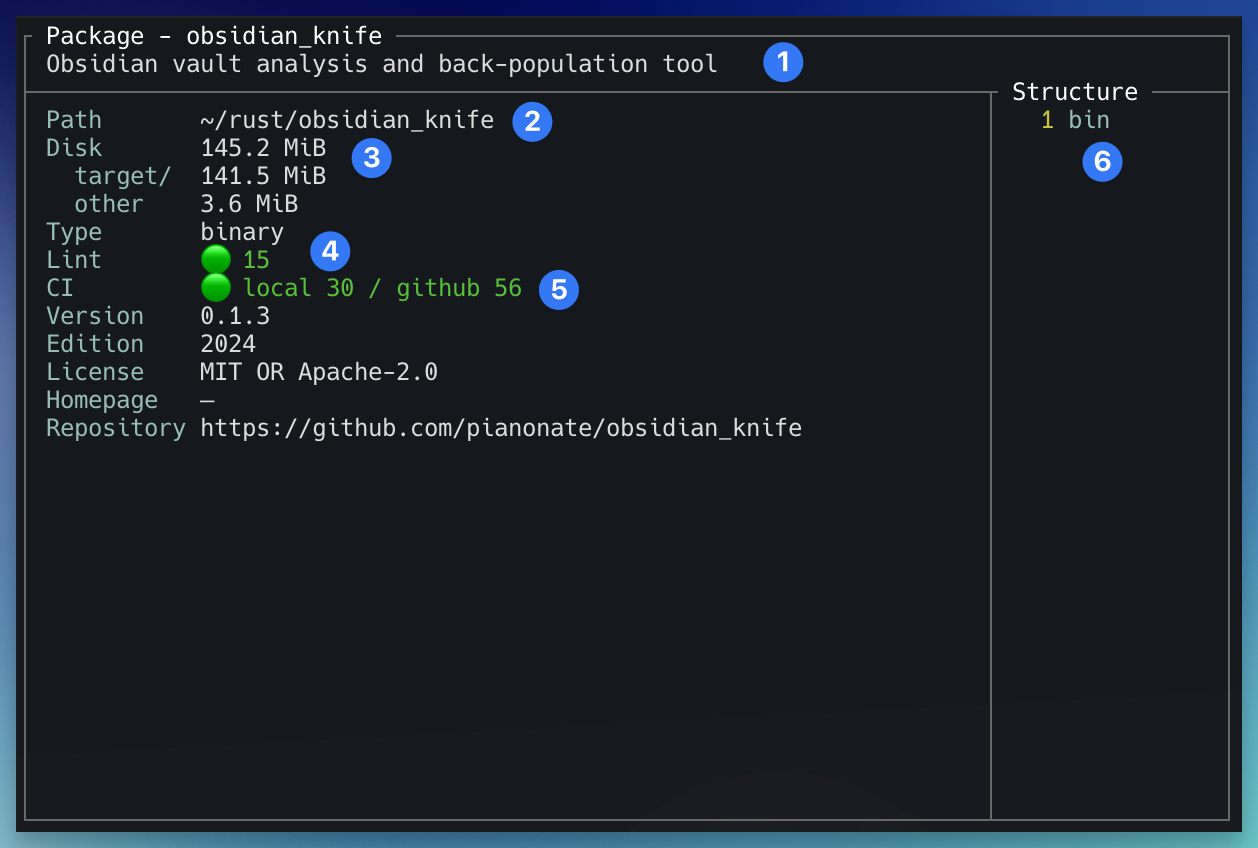
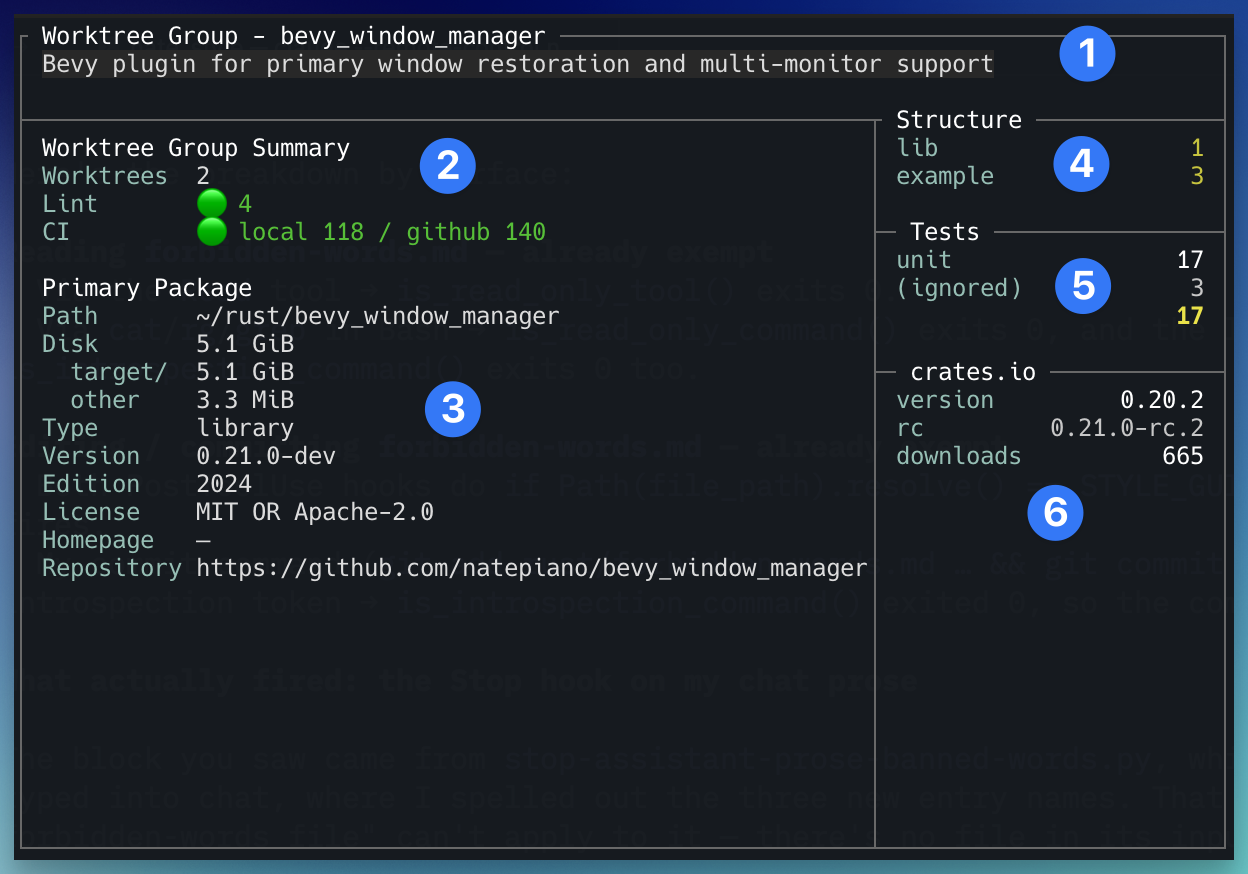
feat: bold column headers and section titles only when pane focused
- Add `focused` param to git pane header renderers (remotes, pull
  requests, worktrees) so column headers bold only when focused
- Introduce `column_header_style(focused)` helper to centralize the
  bold-when-focused logic across the three git section headers
- Gate section-overlay title bold on `rule.focused` instead of always
  applying BOLD
- Switch package pane section titles to `ctx.styles.chrome.title_style`
  keyed on active focus state
- Update header render tests to pass the new `focused` argument
- Refresh dashboard and pane-detail screenshots to reflect the
  focus-dependent emphasis

diff --git a/src/tui/panes/git.rs b/src/tui/panes/git.rs
@@ -243,7 +243,7 @@ fn append_remotes_section(
     });
     accum.lines.push(Line::from(Span::raw(String::new())));
     let col_widths = remote_col_widths(&ctx.data.remotes);
-    render_remote_header(accum.lines, &col_widths);
+    render_remote_header(accum.lines, &col_widths, focused);
     let active = matches!(ctx.focus, PaneFocusState::Active);
     for (i, remote) in ctx.data.remotes.iter().enumerate() {
         let row_index = ctx.row_offset + flat_len + pull_requests_len + i;
@@ -303,7 +303,7 @@ fn append_pull_requests_section(
     }
 
     let col_widths = pull_request_col_widths(&section.rows, area_width, ctx.animation_elapsed);
-    render_pull_request_header(accum.lines, &col_widths);
+    render_pull_request_header(accum.lines, &col_widths, focused);
     let active = matches!(ctx.focus, PaneFocusState::Active);
     for (i, row) in section.rows.iter().enumerate() {
         let row_index = ctx.row_offset + flat_len + i;
@@ -420,10 +420,21 @@ fn pull_request_col_widths(
     }
 }
 
-fn render_pull_request_header(lines: &mut Vec<Line<'static>>, widths: &PullRequestColWidths) {
-    let style = Style::default()
-        .fg(column_header_color())
-        .add_modifier(Modifier::BOLD);
+fn column_header_style(focused: bool) -> Style {
+    let style = Style::default().fg(column_header_color());
+    if focused {
+        style.add_modifier(Modifier::BOLD)
+    } else {
+        style
+    }
+}
+
+fn render_pull_request_header(
+    lines: &mut Vec<Line<'static>>,
+    widths: &PullRequestColWidths,
+    focused: bool,
+) {
+    let style = column_header_style(focused);
     let text = format!(
         " {:<number$}  {:<status$}  {:<branch$}  {}",
         fit_text(PULL_REQUEST_NUMBER_HEADER, widths.number),
@@ -546,7 +557,7 @@ fn append_worktrees_section(
     });
     accum.lines.push(Line::from(Span::raw(String::new())));
     let col_widths = worktree_col_widths(&ctx.data.worktrees);
-    render_worktree_header(accum.lines, &col_widths);
+    render_worktree_header(accum.lines, &col_widths, focused);
     let active = matches!(ctx.focus, PaneFocusState::Active);
     for (i, wt) in ctx.data.worktrees.iter().enumerate() {
         let row_index = ctx.row_offset + flat_len + pull_requests_len + remotes_len + i;
@@ -599,9 +610,10 @@ fn render_section_overlays(
         } else {
             inactive_title_color()
         };
-        let title_style = Style::default()
-            .fg(title_color)
-            .add_modifier(Modifier::BOLD);
+        let mut title_style = Style::default().fg(title_color);
+        if rule.focused {
+            title_style = title_style.add_modifier(Modifier::BOLD);
+        }
         tui_pane::render_horizontal_rule(
             frame,
             Rect {
@@ -824,10 +836,8 @@ fn remote_col_widths(remotes: &[RemoteRow]) -> RemoteColWidths {
     }
 }
 
-fn render_remote_header(lines: &mut Vec<Line<'static>>, widths: &RemoteColWidths) {
-    let style = Style::default()
-        .fg(column_header_color())
-        .add_modifier(Modifier::BOLD);
+fn render_remote_header(lines: &mut Vec<Line<'static>>, widths: &RemoteColWidths, focused: bool) {
+    let style = column_header_style(focused);
     // Leading: 1 space pad + REMOTE_ICON_COL blank for icon alignment.
     let text = format!(
         " {:<icon$}{:<name$}  {:<url$}  {:<tracked$}  {:>status$}",
@@ -917,10 +927,12 @@ fn worktree_col_widths(worktrees: &[WorktreeInfo]) -> WorktreeColWidths {
     }
 }
 
-fn render_worktree_header(lines: &mut Vec<Line<'static>>, widths: &WorktreeColWidths) {
-    let style = Style::default()
-        .fg(column_header_color())
-        .add_modifier(Modifier::BOLD);
+fn render_worktree_header(
+    lines: &mut Vec<Line<'static>>,
+    widths: &WorktreeColWidths,
+    focused: bool,
+) {
+    let style = column_header_style(focused);
     let text = format!(
         " {:<name$}  {:<branch$}  {:<status$}",
         WORKTREES_NAME_HEADER,
@@ -1255,7 +1267,7 @@ mod tests {
             status:  6,
         };
 
-        render_remote_header(&mut lines, &widths);
+        render_remote_header(&mut lines, &widths, true);
 
         assert!(line_text(&lines[0]).ends_with("  Sync"));
     }
@@ -1274,7 +1286,7 @@ mod tests {
         let widths = pull_request_col_widths(&[row], 80, Duration::ZERO);
         let mut lines = Vec::new();
 
-        render_pull_request_header(&mut lines, &widths);
+        render_pull_request_header(&mut lines, &widths, true);
 
         assert!(line_text(&lines[0]).contains("Status"));
         assert!(line_text(&lines[0]).contains("Branch"));

diff --git a/src/tui/panes/package.rs b/src/tui/panes/package.rs
@@ -292,9 +292,10 @@ fn render_column_inner(
                 ) {
                     lines.push(Line::default());
                 }
-                let style = Style::default()
-                    .fg(title_color())
-                    .add_modifier(Modifier::BOLD);
+                let style = ctx
+                    .styles
+                    .chrome
+                    .title_style(matches!(focus, PaneFocusState::Active));
                 lines.push(Line::from(Span::styled(
                     format!(" {}", section.label()),
                     style,